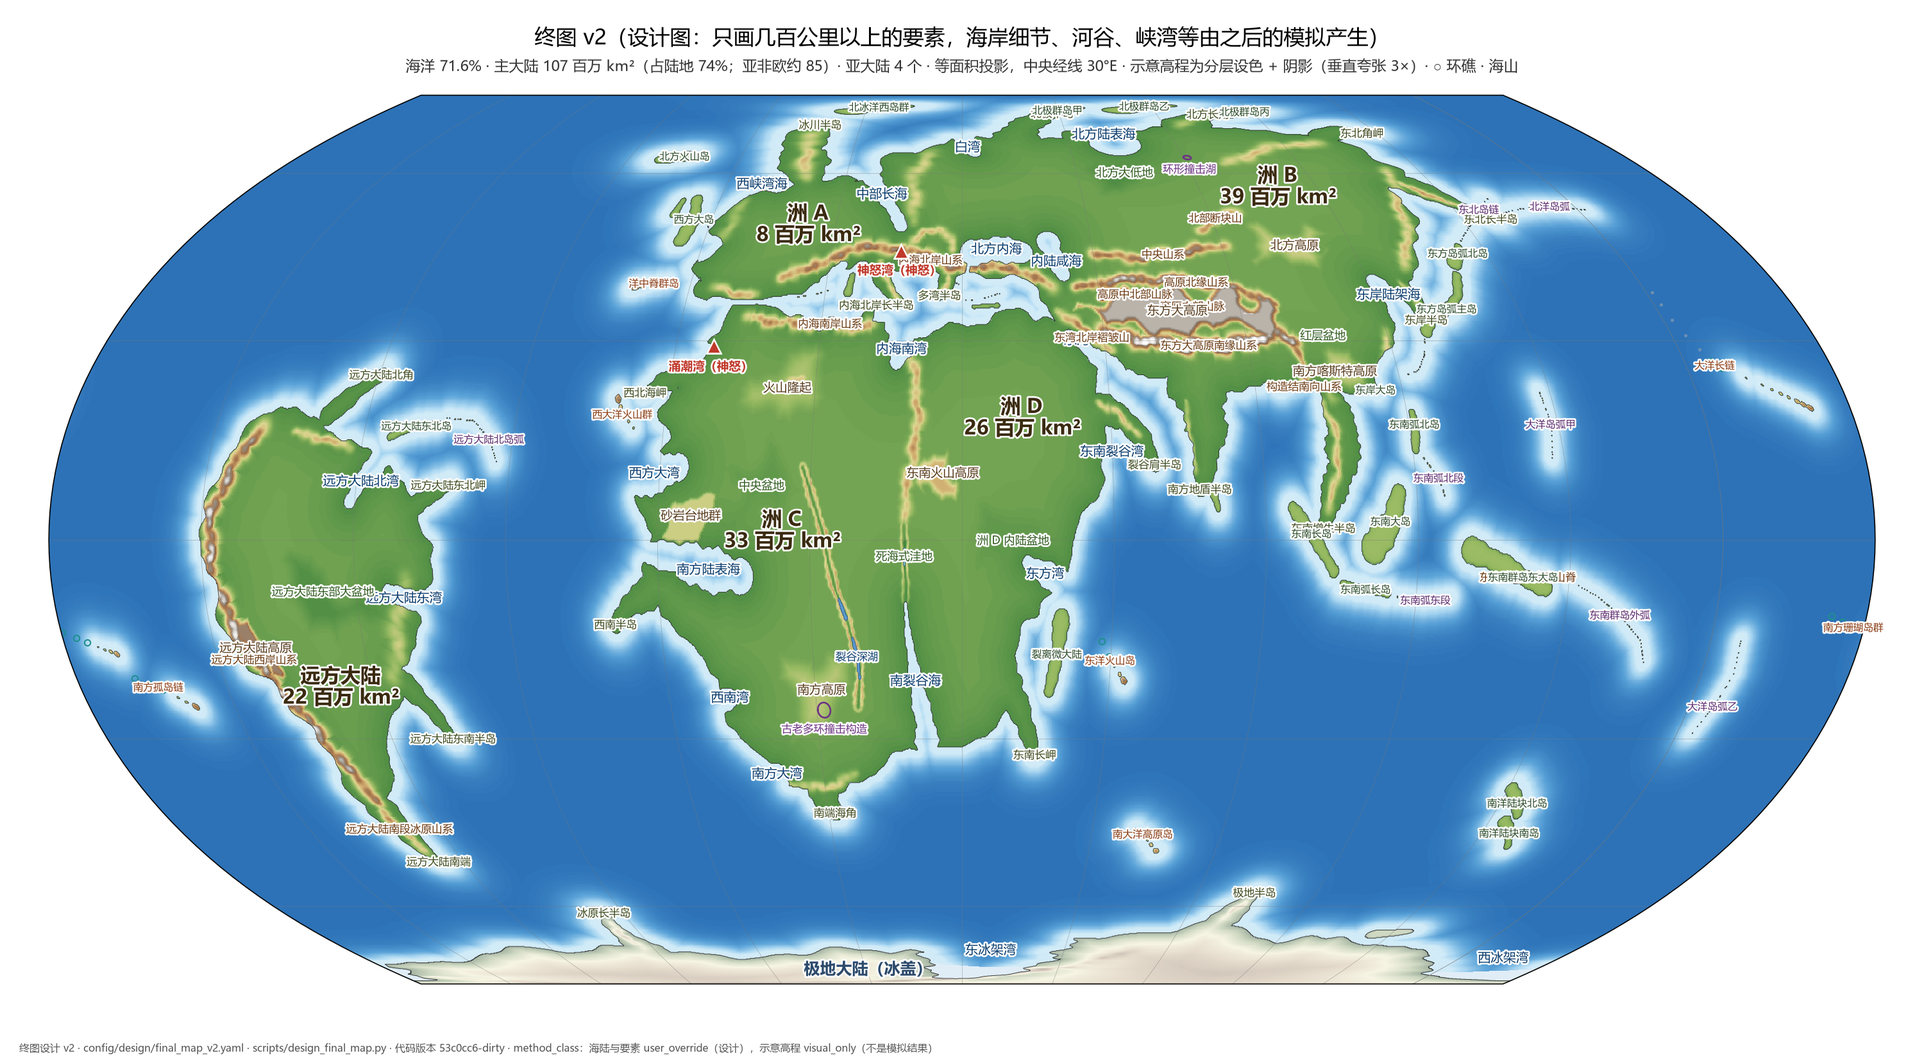
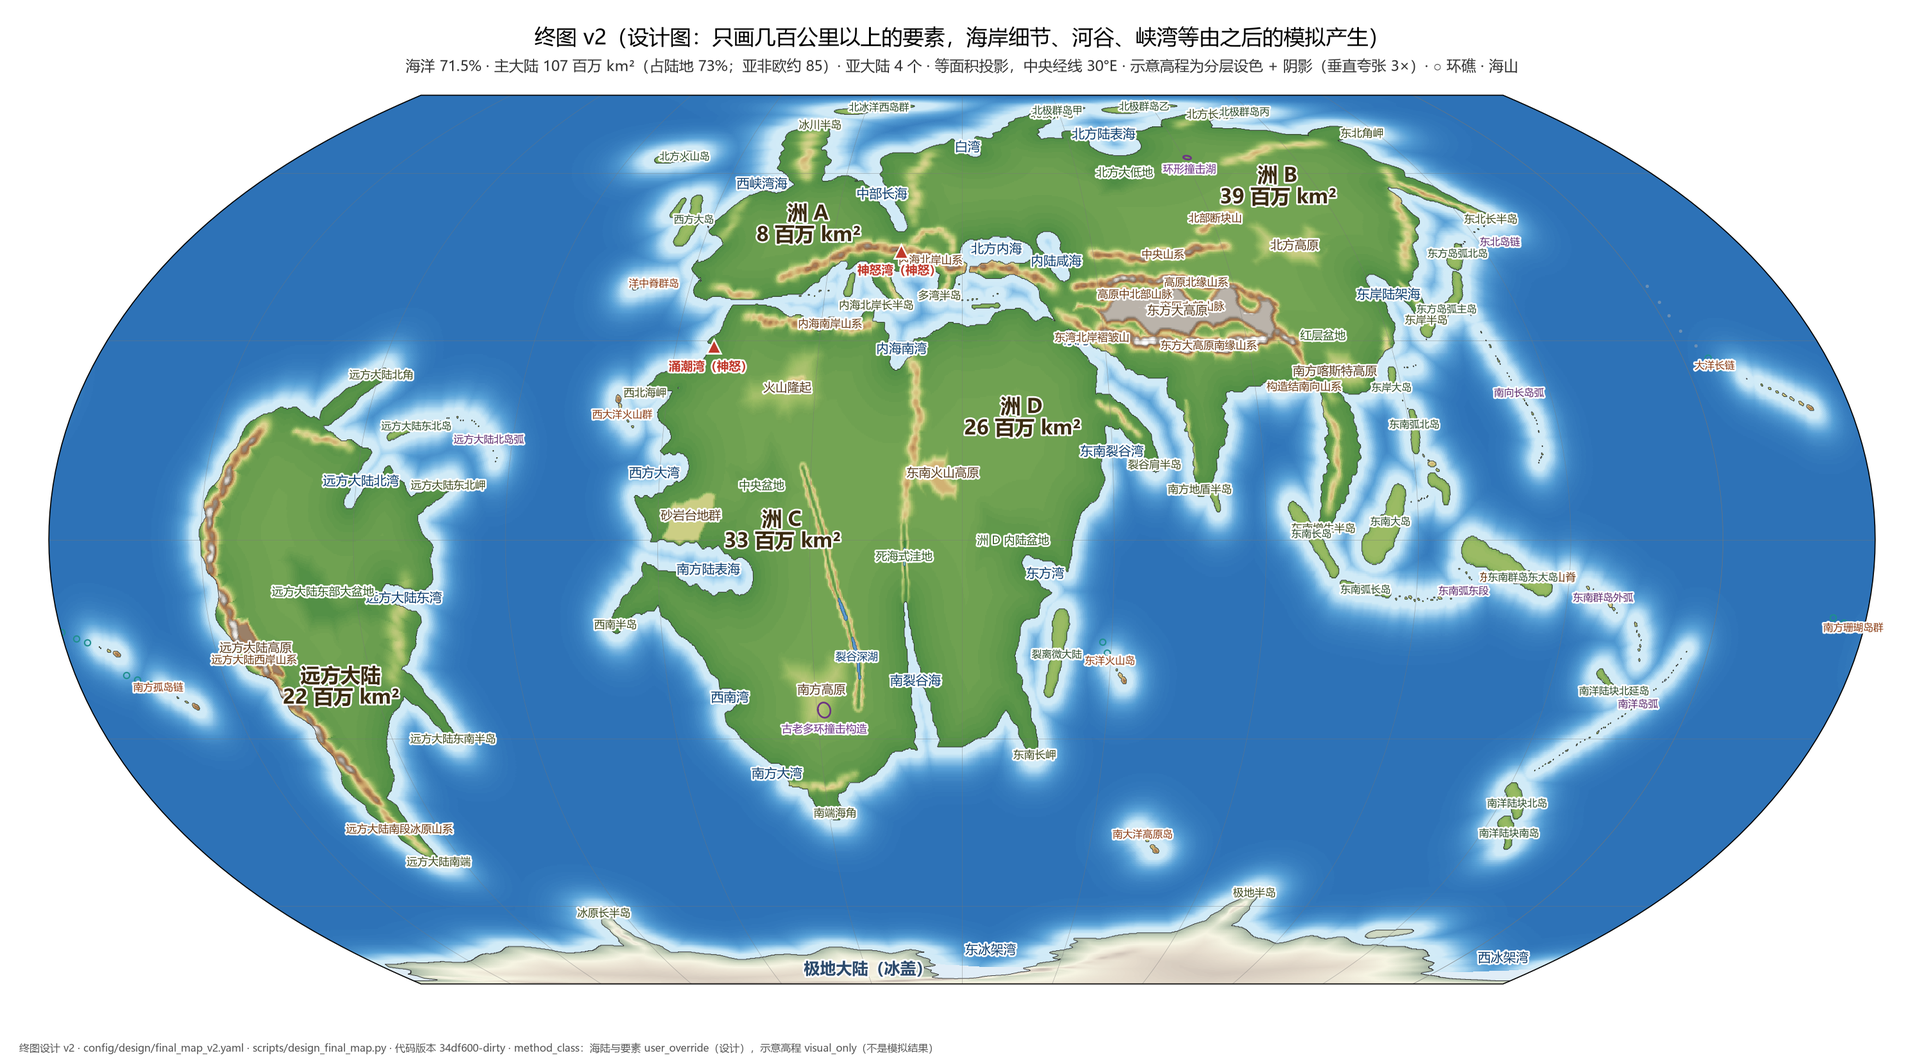
U22 终图 v2 岛弧修订：岛弧排成相连的俯冲带系统，去掉孤立和断头的岛弧，岛弧不再像虚线
- 东大洋西缘两支：北支 东北长半岛—东北岛链—东方岛弧—南向长岛弧；南支 东方岛弧—南链—东岸大岛—东南弧—东南大岛与回旋的东南弧东段
- 东南群岛外弧拆成两段；南洋陆块北面加长岛，原大洋岛弧乙移到南洋陆块北端向东北伸出；北洋岛弧删掉
- 岛弧生成：每条用自己的随机数，岛的大小对数正态、间距随机且有缺口、岛位稍偏离弧线
- 记录用户决定：洲 A 不扩大；A 层 7 项全部达标

diff --git a/scripts/design_final_map.py b/scripts/design_final_map.py
@@ -310,20 +310,29 @@ def build(design: dict, grid: LatLonGrid, seed: int = 1):
         p, s = densify(isl["line"])
         L = s[-1]
         if kind == "arc":
+            # 真实岛弧不是等距等大的虚线：岛的大小取对数正态（偶有大岛）、间距随机并偶有缺口（沉在水下的弧段）、
+            # 岛位与长轴方向稍偏离弧线。每条岛弧用自己的随机数，改一条不牵动别的。
+            frng = feature_rng(isl["id"])
             size = float(isl["size_km"])
             step = size * (1.0 + float(isl.get("gap", 0.3)))
-            t = rng.uniform(0, step * 0.3)
+            t = frng.uniform(0, step * 0.5)
             while t < L:
                 i = int(np.searchsorted(s, t).clip(1, len(s) - 1))
                 c, along = p[i], p[i] - p[i - 1]
-                a = size * rng.uniform(0.55, 1.1) / 2
-                b = max(size * rng.uniform(0.22, 0.42) / 2, 8.0)
+                nrm = np.cross(c, along)
+                nrm /= np.linalg.norm(nrm)
+                c = c + nrm * (frng.normal(0.0, 0.3) * size / R_KM)
+                c /= np.linalg.norm(c)
+                along = along + nrm * np.linalg.norm(along) * frng.normal(0.0, 0.3)
+                f = float(np.clip(np.exp(frng.normal(0.0, 0.5)), 0.35, 2.6))
+                a = size * f * frng.uniform(0.6, 1.0) / 2
+                b = max(a * frng.uniform(0.35, 0.7), 8.0)
                 if a >= MIN_ISLAND_RADIUS_KM:
                     m = ellipse_mask(grid, c, along, a, b) & ~land
                     land |= m
-                    island_peak[m] = np.maximum(island_peak[m], 1200.0 + 1400.0 * min(1.0, size / 100))
+                    island_peak[m] = np.maximum(island_peak[m], 1200.0 + 1400.0 * min(1.0, a / 50))
                     cont[m] = "island"
-                t += step * rng.uniform(0.8, 1.25)
+                t += step * frng.uniform(0.6, 1.4) * (frng.uniform(2.0, 3.5) if frng.random() < 0.12 else 1.0)
         elif kind == "hotspot":
             young = float(isl.get("young_km", 500))
             t = 0.0

diff --git a/PROGRESS.md b/PROGRESS.md
@@ -8,7 +8,7 @@
 ## 当前状态
 
 - 当前阶段：**阶段 1 · 构造演化与多种子筛选（进行中）**。阶段 0 已于 2026-10-22 通过。
-- 当前工作单元：**U22 方法变更 -> 终图设计（2026-10-23 用户决定）**：改为"终图 -> 开发者倒推成因与板块运动 -> 从 300 Ma 正向跑地壳 -> 对照终图修正 -> 细节由过程产生、局部手调"（CLAUDE.md §4，PROGRESS U22）。**用户不手绘：开发者按用户构想画终图初稿**，在终图上核对面积与 A 层，用户看图提修改意见、反复修改到认可，然后倒推。**终图 v2 + 原型库核对表已提交用户审看（2026-10-23 笔记本）**：设计文件 `config/design/final_map_v2.yaml`，核对表 `config/design/archetype_check_v2.yaml` → 文档 `docs/design_archetype_check_v2.md`（`scripts/design_archetype_check.py --design v2`），出图 `scripts/design_final_map.py --design v2`（笔记本约 1 分钟；洲 A 扩大的变体加 `--options bigA`），图 `figures/design/v2/01–06`、`figures/design/v2_bigA/01`（强制提交进 Git，方便换机查看）。**等用户看图：认可终图 v2，并决定洲 A 扩不扩大**（见"进行中"）；认可后进入倒推。v1 留作记录（`final_map_v1.yaml`、`figures/design/v1/`）。
+- 当前工作单元：**U22 方法变更 -> 终图设计（2026-10-23 用户决定）**：改为"终图 -> 开发者倒推成因与板块运动 -> 从 300 Ma 正向跑地壳 -> 对照终图修正 -> 细节由过程产生、局部手调"（CLAUDE.md §4，PROGRESS U22）。**用户不手绘：开发者按用户构想画终图初稿**，在终图上核对面积与 A 层，用户看图提修改意见、反复修改到认可，然后倒推。**终图 v2 + 原型库核对表已提交用户审看（2026-10-23 笔记本）**：设计文件 `config/design/final_map_v2.yaml`，核对表 `config/design/archetype_check_v2.yaml` → 文档 `docs/design_archetype_check_v2.md`（`scripts/design_archetype_check.py --design v2`），出图 `scripts/design_final_map.py --design v2`（笔记本约 1 分钟；洲 A 扩大的变体加 `--options bigA`），图 `figures/design/v2/01–06`、`figures/design/v2_bigA/01`（强制提交进 Git，方便换机查看）。用户看过后（2026-10-23）：洲 A 不扩大，岛弧分布别扭，其他可以；**岛弧已按成因重排，等用户确认岛弧后定稿**，定稿后进入倒推。v1 留作记录（`final_map_v1.yaml`、`figures/design/v1/`）；`figures/design/v2_bigA/` 是洲 A 扩大的变体，用户没有采用，留作记录。
 - 上一工作单元：**1.2c U21 四个洲分层拼合（暂停，被 U22 取代；代码保留，引擎、旋转文件、分段路线、速度审计可复用）**：剧本生成器改成"卫星陆块拼到洲核心 -> 两个洲焊成一组 -> 第二组拼到第一组上夹出主内海"，闭合式拼合，极地/次大陆先随行后离开；第一轮完整模拟**世界 8 第一次 A 层全部达标**，但 4/8 仍破碎、主大陆占比 1/8 达标。第二轮（焊合只认粗壮部分、两组大段焊合、极地面积对齐、微大陆裂离生效、限速与速度审计）只做了规划自查、没跑模拟；世界 6 的条带查明是引擎岛弧过程的假象。**用户认为项目卡进度，打算改方案（U22），下次开工先听用户的新方案。**图 `figures/stage1/scenario/`（`02_worlds_0Ma.png` 联系表、`06_main_continent_welds.png` 按洲着色的焊合诊断；`scripts/tectonics_scenario.py --runs 1:1,2:1,3:1,4:1,5:1,6:1,7:1,8:1 --workers 4`，前史有缓存时台式机约 35 分钟；之后 `scripts/tectonics_main_continent_diag.py --worlds 1-8` 约 1 分钟）。300 Ma 初始大陆（U20 修订二）用户已同意继续（2026-10-22），图 `figures/stage1/prehistory/` 01–07（`scripts/tectonics_prehistory.py --seeds 1-8`，笔记本约 15 分钟）。方法与工作单元划分见 `docs/tectonics_method.md`；检查点图（本地生成，不进 Git）：1.2c `figures/stage1/scenario/`（`scripts/tectonics_scenario.py`，约 5 分钟），1.2b `figures/stage1/prehistory/`（`scripts/tectonics_prehistory.py`，8 个种子笔记本约 6 分钟），1.2a `figures/stage1/synthetic/`（`scripts/tectonics_synthetic.py`，约 1 分钟）。1.1 对比报告 `docs/stage1_method_comparison.md`。
   - 阶段 0 的图组（本地生成，不进 Git）：地球 `figures/stage0/earth_2048x1024/index.html`、圆润世界 `figures/stage0/rounded_control/index.html`、噪声海岸世界 `figures/stage0/noise_control/index.html`；校准报告 `reviews/stage0_calibration.md`；奇景覆盖度 `docs/archetype_coverage.md`。
 - 当前使用的机器：笔记本（Ezreal）
@@ -17,6 +17,8 @@
 ## 已完成
 
 （按时间倒序，每条一行：日期 · 工作单元 · 简述 · 产出路径）
+
+- 2026-10-23 · U22 终图 v2 岛弧修订（笔记本，等用户确认）· 用户看 v2 后说岛弧分布别扭（原话见"进行中"）。查出三处：两条岛弧（大洋岛弧甲、乙）孤零零漂在大洋中间，不连任何陆地或岛弧；北洋岛弧在大洋里断头，东北岛链冲过了东北长半岛尖端；所有岛弧都像尺子画的虚线（等大、等距、几乎是直线）。地球上的岛弧是俯冲带的产物，排成相连的系统、向俯冲的大洋一侧弯凸、围出弧后边缘海。改法：东大洋西缘排成两支——北支东北长半岛—东北岛链—东方岛弧—南向长岛弧（原大洋岛弧甲并入，伊豆—马里亚纳式，向东弯凸、西侧是弧后海盆）；南支东方岛弧—南链—东岸大岛（移到南链末端，台湾式）—东南弧（北岛、中部大岛群、南岛、接东南大岛的小岛弧，菲律宾式）—东南弧东段（末端回旋，班达式）；东南群岛外弧拆成大岛成串的北段（所罗门式）与南北排列的南段（瓦努阿图式）；南洋陆块北面加一个露出水面的长岛，原大洋岛弧乙移到南洋陆块北端向东北伸出（克马德克—汤加式）；北洋岛弧删掉（东端没有陆地可接）。岛弧生成改为每条岛弧用自己的随机数、岛的大小取对数正态（偶有大岛）、间距随机且偶有缺口、岛位与长轴稍偏离弧线。A 层 7 项全部达标（海洋 71.5%，主大陆占陆地 73%）；核对表 108 个原型仍全部对上（"火山岛弧与边缘海"改引新的岛弧系统），相关测试 10 项全过 · `config/design/final_map_v2.yaml`、`config/design/archetype_check_v2.yaml`、`docs/design_archetype_check_v2.md`、`scripts/design_final_map.py`、图 `figures/design/v2/`
 
 - 2026-10-23 · U22 原型库 × 终图核对 + 终图 v2（笔记本，已提交用户审看）· 按用户要求（原话见"进行中"）逐条核对原型库全部 108 个原型：终图有没有给它留出成因条件、在哪里。结果：终图已安排 27、v2 新增 25、候选地点 47（终图给了大尺度条件，形态要等侵蚀、气候等后续阶段确认）、不依赖终图 9（C 级叙事、普遍出现、随机事件或行星级）。补进终图 v2 的：① **两个"神怒"共振海湾**（按本星球潮汐周期估算长度：自转 24 h、恒星月 14.9 天 → 半日潮约 12.9 h、全日潮约 25.7 h；一端开口海湾 T = 4L/√(gh)）：内海里的神怒湾（湾长约 680 km、水深约 90 m，全日潮共振，威尼斯式）、外洋的涌潮湾（约 300 km、约 70 m，半日潮共振 + 涌潮，芬迪—钱塘江式），潮差在阶段 3 用潮汐模型核算；② **C、D 之间的左旋走滑断层与死海式洼地**（谷底约 −380 m，咸湖与达洛尔式热液区）；③ 岩性区 12 处（两处碳酸盐岩区 → 喀斯特与蓝洞，古老砂岩台地 → 平顶山，红层盆地 → 丹霞与砂岩峰林，前陆蒸发岩 → 盐丘与油气，古礁白云岩，三处古陆核，两处花岗岩基，蛇绿岩），以及对应的喀斯特高原、砂岩台地群、红层盆地高程；④ 两个撞击构造（约 20 亿年的多环构造、约 3500 万年的环形撞击湖，都在稳定地盾上）；⑤ 远方大陆南端（巴塔哥尼亚式峡湾与山地冰原）。新增 06 图"奇景舞台"（每个原型的编号标在终图上）。核对中发现并改正 v1 的两处错误：**南裂谷海的运动方式**（v1 写"旋转极在北端附近，比斯开湾式"，按此北端以北的缝合带要被挤压上千公里，不成立；改为洲 D 像阿拉伯板块那样相对洲 C 斜向北移，南段张开、北段沿老缝合带走滑，南口由 950 km 收窄到约 520 km，走滑量约 400 km 量级，与阿尔金、圣安德烈斯断层相当，倒推时核算）；**v1 新增的 4 个盆地在高程上没有生效**（山脊叠加用 max(地面, 基准面 + 山脊)，把盆地整片抬回基准面；v1 中心实测 345–470 m，设计 120–300 m；v1 条目说"洲 C 内部不再是一片空白"不准确），v2 改为山脊从地面与基准面中较低者算起，盆地中心实测 148–300 m。洲 A 扩大做成可选项 bigA（地盾北延、冰川半岛加宽、西缘凸出），A 由 7.8 增到 8.9 Mkm²。A 层 7 项全部达标（v2：海洋 71.6%，主大陆占陆地 74%；bigA：海洋 71.4%）。新增测试 3 项（核对表覆盖全部原型、校验能抓出漏项与错误编号、选项替换要素），相关测试 10 项全过 · `config/design/final_map_v2.yaml`、`config/design/archetype_check_v2.yaml`、`docs/design_archetype_check_v2.md`、`scripts/design_archetype_check.py`、`scripts/design_final_map.py`、`tests/test_design_archetype_check.py`、`data/worlds/design_v2*/params.json`、图 `figures/design/v2/`、`figures/design/v2_bigA/`
 
@@ -81,11 +83,12 @@
 - **U20 修订二已实施，用户同意继续 1.2c**（2026-10-22）。剩下的穿省份直线段（最长 0.2–1.1 千 km）经开发者评估在科学允许范围内（运动学上必须、地球上也有同量级的直海岸），不再处理；"所有裂谷同时张开"记为已知局限，若 0 Ma 上看得出痕迹再改成分批裂开。筛查 `scripts/tectonics_prehistory_screen.py 6 4 1,2,3,4,5,6,7,8`（笔记本约 10 分钟），L6 结果对 L7 有效。
 - **终图 v2 + 原型库核对表已提交用户审看（2026-10-23 笔记本）**：用户的要求（转录自对话，开发者在问题框"要不要先对照原型库核对终图、把缺的补进去？"之后，用户点选回复，按钮文字由开发者拟）："先做原型库和终图的核对表，缺的按成因补进终图 v2，洲 A 要不要扩大也一起给建议，弄好给我看图"。此前用户问"地貌什么的定了吗"，开发者回答终图只定大格局、具体地形由后续阶段产生，并指出终图还没对照原型库核对。
   - 给用户看：`figures/design/v2/06_archetype_stage.png`（奇景舞台）、`01_final_map.png`（终图 v2）、`figures/design/v2_bigA/01_final_map.png`（洲 A 扩大）；核对表 `docs/design_archetype_check_v2.md`。
+  - **用户看图后的意见**（转录自对话，2026-10-23 笔记本，开发者在问题框"终图 v2 可以定稿吗（洲 A 按我的建议不扩大）？"之后）："岛弧的分布有点别扭，其他的还行，洲A就不扩大了"。开发者据此：洲 A 不扩大（已定）；岛弧按成因重排（见"已完成"），请用户确认岛弧后定稿。
   - **开发者对洲 A 的建议：不扩大。** 理由：① 洲 A 7.8 Mkm²，已经比欧洲西部（不含东欧平原，约 6）大，东欧平原那一块在本世界相当于洲 B 西部；四个洲大小悬殊本来就是为了避开"色块世界"；② 洲 A 好看在错落（冰川半岛、西峡湾海、中部长海、神怒湾、长半岛），bigA 把北面的海湾填掉大半后更圆、更像一块（对比两张 01 图）；③ 如果用户想让 A 更像一个大洲，更好的做法是把 A、B 之间的缝合带（中部长海、北方缝合老山）东移约 4–5°，A 从 B 分到约 1 Mkm²，海岸不变圆；但 A 与 B 之间的窄颈变宽后，A 层可能不再把 A 切成单独的亚大陆，要试过才知道。
   - 以下为 v1 时的记录。
 - **终图初稿 v1 已提交用户审看（2026-10-23 笔记本）**：请用户看 `figures/design/v1/` 的 01（终图）、02（要素与计划成因）、04（与同样概括程度的地球对照）、05（南极区），提修改意见；用户认可后进入倒推（成因与板块运动）。
   - ① **洲 C、D 已定：保持焊死的一整块南方大陆**（约 58 Mkm²，非洲约 30）。用户的决定（转录自对话，2026-10-23 笔记本，开发者在问题框"南方的洲 C、D 要不要拆得更开？"之后，开发者建议拆开、以窄陆颈相连；用户点选回复，按钮文字由开发者拟）："C、D 保持现在焊死的一整块南方大陆，先按我其他意见改"。用户点选时没有附其他意见，开发者已请用户补充。
-  - ② 待用户决定：**洲 A 只有 7.8 Mkm²**（欧洲约 10），比另三个洲小得多，要不要扩大（v2 时开发者已给建议，见上一条）。
+  - ② **洲 A 已定：不扩大**（7.8 Mkm²；用户 2026-10-23 看 v2 与 bigA 两张图后决定，原话见上一条）。
   - 开发者自评的其他局限：洲 D 东岸（东方湾以南）与远方大陆西岸仍是长而平滑的弧（被动陆缘、安第斯型陆缘在地球上也较平直，几百公里以下的弯曲留给模拟）；北半球高纬缺少地球加拿大北极群岛那样的大群岛；东方大高原在配色上仍是一块灰色。
   - world-reviewer 没有调用：这是给用户审的设计草图，不是候选世界；倒推、正向演化出世界后再按评审协议评。
   - `scripts/design_template.py`（手绘模板）没有提交，用户不手绘，不再需要；投影换算的写法以后要在图上圈改时可参考。

diff --git a/docs/design_archetype_check_v2.md b/docs/design_archetype_check_v2.md
@@ -32,7 +32,7 @@
 | 2 | 大陆高原 | A/B | 终图已安排 | PL1 东方大高原、PL5 远方大陆高原 | 东方大高原（碰撞增厚，青藏式）；远方大陆高原（俯冲增厚，阿尔蒂普拉诺式） | 1 |
 | 3 | 大陆裂谷与裂谷湖 | A/B | 终图已安排 | M10 南方地盾裂谷、L1 裂谷深湖、L2 裂谷北湖 | 南方地盾裂谷，两肩隆起、谷底下陷，两个雁列深湖（东非裂谷、坦噶尼喀湖式） | 1 |
 | 4 | 裂谷海、狭长海湾 | A/B | 终图已安排 | G8 南裂谷海、G9 东南裂谷湾 | 南裂谷海（v2 收窄并改正运动方式）、东南裂谷湾 | 1 |
-| 5 | 火山岛弧与边缘海 | A/B | 终图已安排 | I14 东方岛弧主岛、I15 东方岛弧北岛、G5 东岸陆架海、R4 东南弧北段、R12 东南群岛外弧、R2 北洋岛弧 | 东方岛弧与弧后边缘海（日本式）、东南群岛诸弧、北洋岛弧 | 1 |
+| 5 | 火山岛弧与边缘海 | A/B | 终图已安排 | I14 东方岛弧主岛、I15 东方岛弧北岛、R1 东北岛链、R6 南向长岛弧、R11 东方岛弧南链、I3 东岸大岛、I18 东南弧北岛、R14 东南弧中部群岛、R3 东南弧东段、R12a 东南群岛外弧、R7 南洋岛弧 | 东大洋西缘两支相连的岛弧系统：北支东北岛链—东方岛弧—南向长岛弧（千岛、日本、伊豆—马里亚纳式），南支南链—东岸大岛—东南弧—东南弧东段（琉球、台湾、菲律宾、班达式）；另有东南群岛外弧与南洋岛弧 | 1 |
 | 6 | 弧后伸展多岛海、断块半岛 | A/B | 终图已安排 | R5 内海火山弧、R5b 内海弧后群岛、P8 多湾半岛 | 内海东部：俯冲后撤的火山弧、弧后群岛与多湾半岛（爱琴海—希腊式） | 1–2 |
 | 7 | 海沟陡岸 | A/B | 终图已安排 | M8 远方大陆西岸山系 | 远方大陆西岸山系紧邻海沟（安第斯式） | 1 |
 | 8 | 热点岛链与海山 | A/B | 终图已安排 | H1 大洋长链、H2 南方珊瑚岛群、H3 西大洋火山群、H4 南大洋高原岛、H5 东洋火山岛、H6 洋中脊群岛、H7 南方孤岛链 | 七条热点岛链，越老越小，热带老段沉降成环礁 | 1 |
@@ -70,7 +70,7 @@
 
 | 编号 | 原型 | 等级 | 状态 | 终图上的位置（要素） | 说明 | 确认阶段 |
 |---|---|---|---|---|---|---|
-| 28 | 珊瑚环礁群与堡礁 | A/B | 终图已安排 | H2 南方珊瑚岛群、R12 东南群岛外弧 | 南方珊瑚岛群（老热点岛沉降成环礁）；堡礁候选在东南群岛与洲 D 东岸的热带陆架 | 3 |
+| 28 | 珊瑚环礁群与堡礁 | A/B | 终图已安排 | H2 南方珊瑚岛群、R12a 东南群岛外弧 | 南方珊瑚岛群（老热点岛沉降成环礁）；堡礁候选在东南群岛与洲 D 东岸的热带陆架 | 3 |
 | 29 | 共振海湾与涌潮河口（"神怒"） | A/B | v2 新增 | G7 神怒湾、G23 涌潮湾 | v2 新增。神怒湾（内海里，全日潮共振，威尼斯式）、涌潮湾（外洋，半日潮共振 + 涌潮，芬迪—钱塘江式）；阶段 3 潮汐模型核算 | 3 |
 | 30 | 海峡急流与漩涡 | A/B | 终图已安排 | T1 西海峡、T2 北方内海海峡 | 西海峡（主内海唯一出海口）、北方内海海峡（墨西拿、博斯普鲁斯式），需潮汐模型 | 3 |
 | 31 | 海底峡谷与陡峭陆坡 | A/B | 候选地点 | M8 远方大陆西岸山系 | 远方大陆西岸窄陆架、各大河口外的陡陆坡 | 2 |
